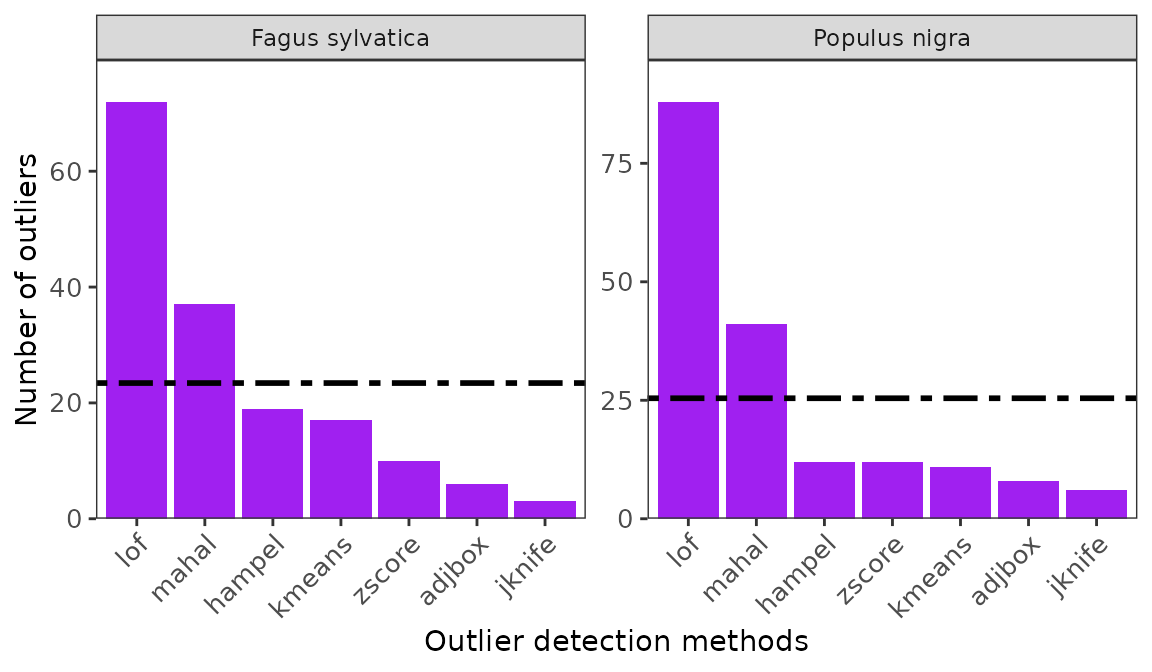
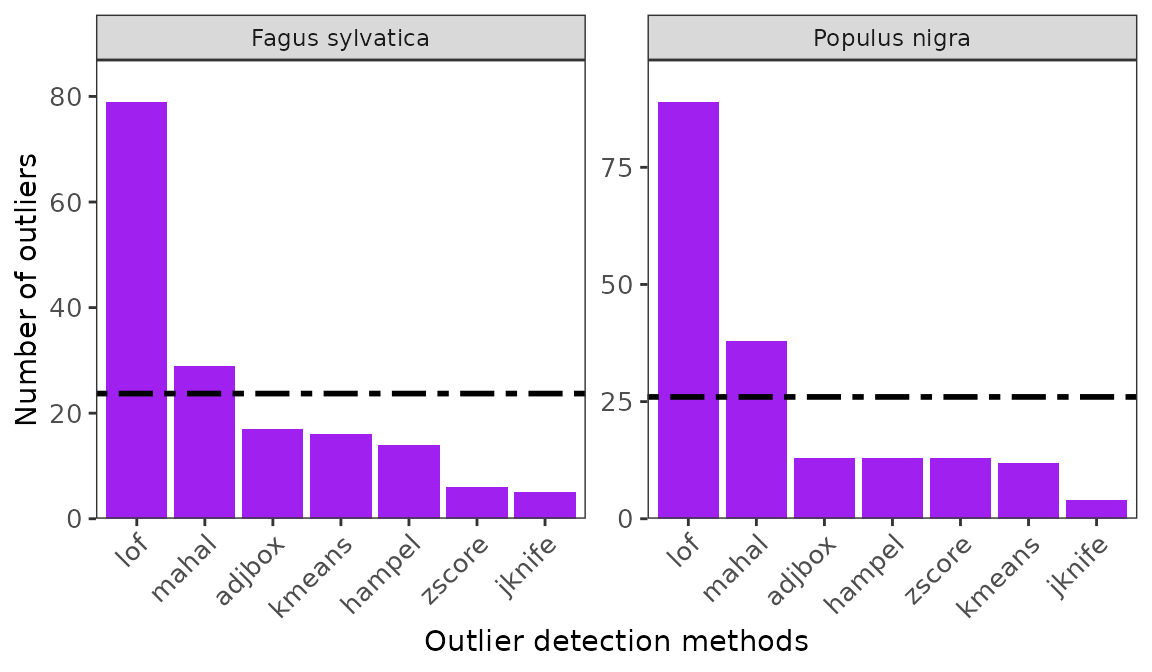
Deploying to gh-pages from @ AnthonyBasooma/specleanr@d36db13d38e583c274aa25bd8331425ac37fe9ff 🚀

diff --git a/articles/eOutlier.html b/articles/eOutlier.html
@@ -277,7 +277,7 @@ Important in the next steps.</li>
 <span>                             list<span class="op">=</span> <span class="cn">TRUE</span>, </span>
 <span>                             minpts <span class="op">=</span> <span class="fl">10</span><span class="op">)</span></span>
 <span><span class="fu"><a href="https://rdrr.io/r/base/dim.html" class="external-link">dim</a></span><span class="op">(</span><span class="va">ttrefdata</span><span class="op">)</span></span>
-<span><span class="co">#&gt; [1] 101  21</span></span></code></pre></div>
+<span><span class="co">#&gt; [1] 100  21</span></span></code></pre></div>
 <ol start="3" style="list-style-type: decimal">
 <li>
 <strong>Outlier detection</strong> Multiple outlier detection are
@@ -367,78 +367,78 @@ identifying the optimal threshold.</p>
 <span><span class="va">multspecies_clean</span> <span class="op">&lt;-</span> <span class="fu"><a href="../reference/extract_clean_data.html">extract_clean_data</a></span><span class="op">(</span>refdata <span class="op">=</span> <span class="va">multipreclened</span>, outliers <span class="op">=</span> <span class="va">multioutliers</span>, </span>
 <span>                                        loess <span class="op">=</span>  <span class="cn">TRUE</span><span class="op">)</span></span>
 <span><span class="fu"><a href="https://rdrr.io/r/utils/head.html" class="external-link">head</a></span><span class="op">(</span><span class="va">multspecies_clean</span><span class="op">)</span></span>
-<span><span class="co">#&gt;       bio1      bio2     bio3     bio4     bio5     bio6     bio7      bio8</span></span>
-<span><span class="co">#&gt; 1 6.293614  8.755938 31.96181 690.1050 20.90625 -6.48875 27.39500  7.375333</span></span>
-<span><span class="co">#&gt; 2 4.385906  8.844812 34.54499 639.1041 17.86975 -7.73400 25.60375 12.208917</span></span>
-<span><span class="co">#&gt; 3 8.108875  8.424750 31.78192 689.7935 22.77525 -3.73275 26.50800 16.631666</span></span>
-<span><span class="co">#&gt; 4 4.920063  8.054250 33.13006 620.0639 17.83550 -6.47550 24.31100 12.537000</span></span>
-<span><span class="co">#&gt; 5 6.023146 10.469084 36.15546 698.5480 21.37100 -7.58475 28.95575 12.989917</span></span>
-<span><span class="co">#&gt; 6 8.093719  8.563396 32.36844 682.8456 22.54375 -3.91225 26.45600 16.554874</span></span>
-<span><span class="co">#&gt;         bio9    bio10      bio11 bio12 bio13 bio14    bio15 bio16 bio17 bio18</span></span>
-<span><span class="co">#&gt; 1 -1.1756251 14.80313 -2.0642917  2118   241   105 21.73814   663   379   530</span></span>
-<span><span class="co">#&gt; 2 -2.4245417 12.20892 -3.3516667  1309   177    64 33.94616   495   216   495</span></span>
-<span><span class="co">#&gt; 3  0.9817083 16.63167 -0.3191667   798   102    43 30.42370   285   131   285</span></span>
-<span><span class="co">#&gt; 4 -1.7382917 12.53700 -2.4977083  1409   188    76 31.33461   524   257   524</span></span>
-<span><span class="co">#&gt; 5 -1.6493334 14.52096 -2.6731668   825    92    48 19.36208   251   152   239</span></span>
-<span><span class="co">#&gt; 6  1.0112917 16.55487 -0.2026250   902   111    48 29.86472   322   151   322</span></span>
-<span><span class="co">#&gt;   bio19         x        y      species</span></span>
-<span><span class="co">#&gt; 1   412 13.916667 46.25000 Salmo trutta</span></span>
-<span><span class="co">#&gt; 2   218 13.083333 47.25000 Salmo trutta</span></span>
-<span><span class="co">#&gt; 3   140  9.916667 48.25000 Salmo trutta</span></span>
-<span><span class="co">#&gt; 4   261 12.916667 47.58333 Salmo trutta</span></span>
-<span><span class="co">#&gt; 5   163 20.250000 43.25000 Salmo trutta</span></span>
-<span><span class="co">#&gt; 6   159 10.916667 48.25000 Salmo trutta</span></span>
+<span><span class="co">#&gt;       bio1     bio2     bio3     bio4     bio5     bio6     bio7      bio8</span></span>
+<span><span class="co">#&gt; 1 6.293614 8.755938 31.96181 690.1050 20.90625 -6.48875 27.39500  7.375333</span></span>
+<span><span class="co">#&gt; 2 8.093719 8.563396 32.36844 682.8456 22.54375 -3.91225 26.45600 16.554874</span></span>
+<span><span class="co">#&gt; 3 8.093719 8.563396 32.36844 682.8456 22.54375 -3.91225 26.45600 16.554874</span></span>
+<span><span class="co">#&gt; 4 4.896625 7.973625 32.91588 622.3517 17.77100 -6.45325 24.22425 12.557834</span></span>
+<span><span class="co">#&gt; 5 8.093719 8.563396 32.36844 682.8456 22.54375 -3.91225 26.45600 16.554874</span></span>
+<span><span class="co">#&gt; 6 6.916979 9.117458 33.16706 698.0782 21.54075 -5.94875 27.48950 15.448167</span></span>
+<span><span class="co">#&gt;        bio9    bio10     bio11 bio12 bio13 bio14    bio15 bio16 bio17 bio18</span></span>
+<span><span class="co">#&gt; 1 -1.175625 14.80313 -2.064292  2118   241   105 21.73814   663   379   530</span></span>
+<span><span class="co">#&gt; 2  1.011292 16.55487 -0.202625   902   111    48 29.86472   322   151   322</span></span>
+<span><span class="co">#&gt; 3  1.011292 16.55487 -0.202625   902   111    48 29.86472   322   151   322</span></span>
+<span><span class="co">#&gt; 4 -1.783750 12.55783 -2.529583  1438   190    77 30.74920   531   262   531</span></span>
+<span><span class="co">#&gt; 5  1.011292 16.55487 -0.202625   902   111    48 29.86472   322   151   322</span></span>
+<span><span class="co">#&gt; 6 -1.616250 15.44817 -1.616250   976   138    51 34.75827   368   163   368</span></span>
+<span><span class="co">#&gt;   bio19        x        y      species</span></span>
+<span><span class="co">#&gt; 1   412 13.91667 46.25000 Salmo trutta</span></span>
+<span><span class="co">#&gt; 2   159 10.91667 48.25000 Salmo trutta</span></span>
+<span><span class="co">#&gt; 3   159 10.91667 48.25000 Salmo trutta</span></span>
+<span><span class="co">#&gt; 4   265 13.08333 47.58333 Salmo trutta</span></span>
+<span><span class="co">#&gt; 5   159 10.91667 48.25000 Salmo trutta</span></span>
+<span><span class="co">#&gt; 6   163 15.08333 47.91667 Salmo trutta</span></span>
 <span></span>
 <span><span class="va">ttclean</span><span class="op">&lt;-</span> <span class="fu"><a href="../reference/extract_clean_data.html">extract_clean_data</a></span><span class="op">(</span>refdata <span class="op">=</span> <span class="va">ttrefdata</span>, outliers <span class="op">=</span> <span class="va">ttoutlier</span>, loess <span class="op">=</span> <span class="cn">TRUE</span><span class="op">)</span></span>
 <span><span class="fu"><a href="https://rdrr.io/r/base/dim.html" class="external-link">dim</a></span><span class="op">(</span><span class="va">ttclean</span><span class="op">)</span></span>
-<span><span class="co">#&gt; [1] 101  21</span></span>
+<span><span class="co">#&gt; [1] 99 21</span></span>
 <span><span class="fu"><a href="https://rdrr.io/r/utils/head.html" class="external-link">head</a></span><span class="op">(</span><span class="va">ttclean</span><span class="op">)</span></span>
 <span><span class="co">#&gt;       bio1     bio2     bio3     bio4     bio5     bio6     bio7     bio8</span></span>
 <span><span class="co">#&gt; 1 8.130990 9.155687 33.54192 693.5986 22.50525 -4.79100 27.29625 16.58138</span></span>
-<span><span class="co">#&gt; 2 8.130990 9.155687 33.54192 693.5986 22.50525 -4.79100 27.29625 16.58138</span></span>
-<span><span class="co">#&gt; 3 8.340094 8.558521 31.95564 691.9463 23.15800 -3.62450 26.78250 15.38925</span></span>
-<span><span class="co">#&gt; 4 7.878094 8.124437 31.13259 684.2282 22.19500 -3.90125 26.09625 16.32617</span></span>
+<span><span class="co">#&gt; 2 7.878094 8.124437 31.13259 684.2282 22.19500 -3.90125 26.09625 16.32617</span></span>
+<span><span class="co">#&gt; 3 5.857854 8.067625 31.90550 664.2546 19.44300 -5.84300 25.28600 14.04800</span></span>
+<span><span class="co">#&gt; 4 8.130990 9.155687 33.54192 693.5986 22.50525 -4.79100 27.29625 16.58138</span></span>
 <span><span class="co">#&gt; 5 8.130990 9.155687 33.54192 693.5986 22.50525 -4.79100 27.29625 16.58138</span></span>
-<span><span class="co">#&gt; 6 8.688948 8.375896 30.39067 733.9625 23.53350 -4.02725 27.56075 17.66537</span></span>
-<span><span class="co">#&gt;        bio9    bio10       bio11 bio12 bio13 bio14    bio15 bio16 bio17 bio18</span></span>
-<span><span class="co">#&gt; 1 0.9313333 16.58138 -0.41912505  1307   174    69 33.66177   499   233   499</span></span>
-<span><span class="co">#&gt; 2 0.9313333 16.58138 -0.41912505  1307   174    69 33.66177   499   233   499</span></span>
-<span><span class="co">#&gt; 3 1.1871250 16.93192 -0.08562502   789    97    44 28.08648   274   136   274</span></span>
-<span><span class="co">#&gt; 4 0.7570000 16.32617 -0.47941664   821   102    49 25.64842   279   148   279</span></span>
-<span><span class="co">#&gt; 5 0.9313333 16.58138 -0.41912505  1307   174    69 33.66177   499   233   499</span></span>
-<span><span class="co">#&gt; 6 1.0729584 17.66537 -0.34283331  1053   134    61 24.62582   361   206   361</span></span>
+<span><span class="co">#&gt; 6 5.290083 8.268625 33.26678 635.7107 18.46425 -6.39125 24.85550 13.10142</span></span>
+<span><span class="co">#&gt;         bio9    bio10      bio11 bio12 bio13 bio14    bio15 bio16 bio17 bio18</span></span>
+<span><span class="co">#&gt; 1  0.9313333 16.58138 -0.4191251  1307   174    69 33.66177   499   233   499</span></span>
+<span><span class="co">#&gt; 2  0.7570000 16.32617 -0.4794166   821   102    49 25.64842   279   148   279</span></span>
+<span><span class="co">#&gt; 3  5.3181252 14.04800 -2.0957501  1232   139    73 19.45996   362   255   362</span></span>
+<span><span class="co">#&gt; 4  0.9313333 16.58138 -0.4191251  1307   174    69 33.66177   499   233   499</span></span>
+<span><span class="co">#&gt; 5  0.9313333 16.58138 -0.4191251  1307   174    69 33.66177   499   233   499</span></span>
+<span><span class="co">#&gt; 6 -1.4955000 13.10142 -2.3458333  1440   193    76 31.47408   536   261   536</span></span>
 <span><span class="co">#&gt;   bio19         x        y</span></span>
 <span><span class="co">#&gt; 1   234 13.083333 47.75000</span></span>
-<span><span class="co">#&gt; 2   234 13.083333 47.75000</span></span>
-<span><span class="co">#&gt; 3   145 10.083333 48.41667</span></span>
-<span><span class="co">#&gt; 4   158  9.916667 48.41667</span></span>
+<span><span class="co">#&gt; 2   158  9.916667 48.41667</span></span>
+<span><span class="co">#&gt; 3   334 13.416667 48.91667</span></span>
+<span><span class="co">#&gt; 4   234 13.083333 47.75000</span></span>
 <span><span class="co">#&gt; 5   234 13.083333 47.75000</span></span>
-<span><span class="co">#&gt; 6   207 13.916667 48.08333</span></span>
+<span><span class="co">#&gt; 6   266 13.250000 47.58333</span></span>
 <span></span>
 <span></span>
 <span><span class="va">labeldata</span> <span class="op">&lt;-</span> <span class="fu"><a href="../reference/classify_data.html">classify_data</a></span><span class="op">(</span>refdata <span class="op">=</span> <span class="va">multipreclened</span>, outliers <span class="op">=</span> <span class="va">multioutliers</span><span class="op">)</span></span>
 <span><span class="fu"><a href="https://rdrr.io/r/utils/head.html" class="external-link">head</a></span><span class="op">(</span><span class="va">labeldata</span><span class="op">)</span></span>
 <span><span class="co">#&gt;        bio1     bio2     bio3     bio4     bio5     bio6     bio7     bio8</span></span>
-<span><span class="co">#&gt; 4  4.920063 8.054250 33.13006 620.0639 17.83550 -6.47550 24.31100 12.53700</span></span>
-<span><span class="co">#&gt; 9  6.611198 7.958354 32.70937 624.9371 19.68450 -4.64600 24.33050 14.33846</span></span>
-<span><span class="co">#&gt; 10 8.149062 8.922417 32.77950 698.9550 22.49275 -4.72675 27.21950 16.66454</span></span>
-<span><span class="co">#&gt; 11 5.519271 8.059958 32.46808 637.3926 18.68325 -6.14100 24.82425 13.31675</span></span>
-<span><span class="co">#&gt; 12 8.130990 9.155687 33.54192 693.5986 22.50525 -4.79100 27.29625 16.58138</span></span>
-<span><span class="co">#&gt; 15 6.954854 8.379916 30.44364 722.8362 21.85250 -5.67350 27.52600 15.76013</span></span>
+<span><span class="co">#&gt; 6  6.916979 9.117458 33.16706 698.0782 21.54075 -5.94875 27.48950 15.44817</span></span>
+<span><span class="co">#&gt; 7  8.149062 8.922417 32.77950 698.9550 22.49275 -4.72675 27.21950 16.66454</span></span>
+<span><span class="co">#&gt; 8  5.519271 8.059958 32.46808 637.3926 18.68325 -6.14100 24.82425 13.31675</span></span>
+<span><span class="co">#&gt; 9  8.130990 9.155687 33.54192 693.5986 22.50525 -4.79100 27.29625 16.58138</span></span>
+<span><span class="co">#&gt; 13 6.611198 7.958354 32.70937 624.9371 19.68450 -4.64600 24.33050 14.33846</span></span>
+<span><span class="co">#&gt; 17 6.645698 9.050813 33.62833 683.4241 21.02575 -5.88850 26.91425 15.00887</span></span>
 <span><span class="co">#&gt;          bio9    bio10      bio11 bio12 bio13 bio14    bio15 bio16 bio17 bio18</span></span>
-<span><span class="co">#&gt; 4  -1.7382917 12.53700 -2.4977083  1409   188    76 31.33461   524   257   524</span></span>
-<span><span class="co">#&gt; 9  -0.8168333 14.33846 -0.8168333  1324   181    66 38.16012   524   210   524</span></span>
-<span><span class="co">#&gt; 10  0.8570418 16.66454 -0.4938749  1223   159    66 32.25150   460   222   460</span></span>
-<span><span class="co">#&gt; 11 -1.2837082 13.31675 -2.1408334  1303   177    70 33.05493   494   233   494</span></span>
-<span><span class="co">#&gt; 12  0.9313333 16.58138 -0.4191251  1307   174    69 33.66177   499   233   499</span></span>
-<span><span class="co">#&gt; 15 -0.7949167 15.76013 -2.0100417   806   113    38 38.67074   311   118   311</span></span>
+<span><span class="co">#&gt; 6  -1.6162500 15.44817 -1.6162500   976   138    51 34.75827   368   163   368</span></span>
+<span><span class="co">#&gt; 7   0.8570418 16.66454 -0.4938749  1223   159    66 32.25150   460   222   460</span></span>
+<span><span class="co">#&gt; 8  -1.2837082 13.31675 -2.1408334  1303   177    70 33.05493   494   233   494</span></span>
+<span><span class="co">#&gt; 9   0.9313333 16.58138 -0.4191251  1307   174    69 33.66177   499   233   499</span></span>
+<span><span class="co">#&gt; 13 -0.8168333 14.33846 -0.8168333  1324   181    66 38.16012   524   210   524</span></span>
+<span><span class="co">#&gt; 17 -1.6400833 15.00887 -1.6400833  1050   148    56 33.98892   391   178   391</span></span>
 <span><span class="co">#&gt;    bio19        x        y       label       groups</span></span>
-<span><span class="co">#&gt; 4    261 12.91667 47.58333 not outlier Salmo trutta</span></span>
-<span><span class="co">#&gt; 9    210 11.08333 47.58333 not outlier Salmo trutta</span></span>
-<span><span class="co">#&gt; 10   222 13.08333 47.91667 not outlier Salmo trutta</span></span>
-<span><span class="co">#&gt; 11   236 12.58333 47.58333 not outlier Salmo trutta</span></span>
-<span><span class="co">#&gt; 12   234 13.08333 47.75000 not outlier Salmo trutta</span></span>
-<span><span class="co">#&gt; 15   131 18.08333 49.41667 not outlier Salmo trutta</span></span></code></pre></div>
+<span><span class="co">#&gt; 6    163 15.08333 47.91667 not outlier Salmo trutta</span></span>
+<span><span class="co">#&gt; 7    222 13.08333 47.91667 not outlier Salmo trutta</span></span>
+<span><span class="co">#&gt; 8    236 12.58333 47.58333 not outlier Salmo trutta</span></span>
+<span><span class="co">#&gt; 9    234 13.08333 47.75000 not outlier Salmo trutta</span></span>
+<span><span class="co">#&gt; 13   210 11.08333 47.58333 not outlier Salmo trutta</span></span>
+<span><span class="co">#&gt; 17   178 15.25000 47.91667 not outlier Salmo trutta</span></span></code></pre></div>
 <p><strong>References</strong> 1. Wieczorek, J., Bloom, D., Guralnick,
 R., Blum, S., Döring, M., Giovanni, R., Robertson, T., &amp; Vieglais,
 D. (2012). Darwin core: An evolving community-developed biodiversity
